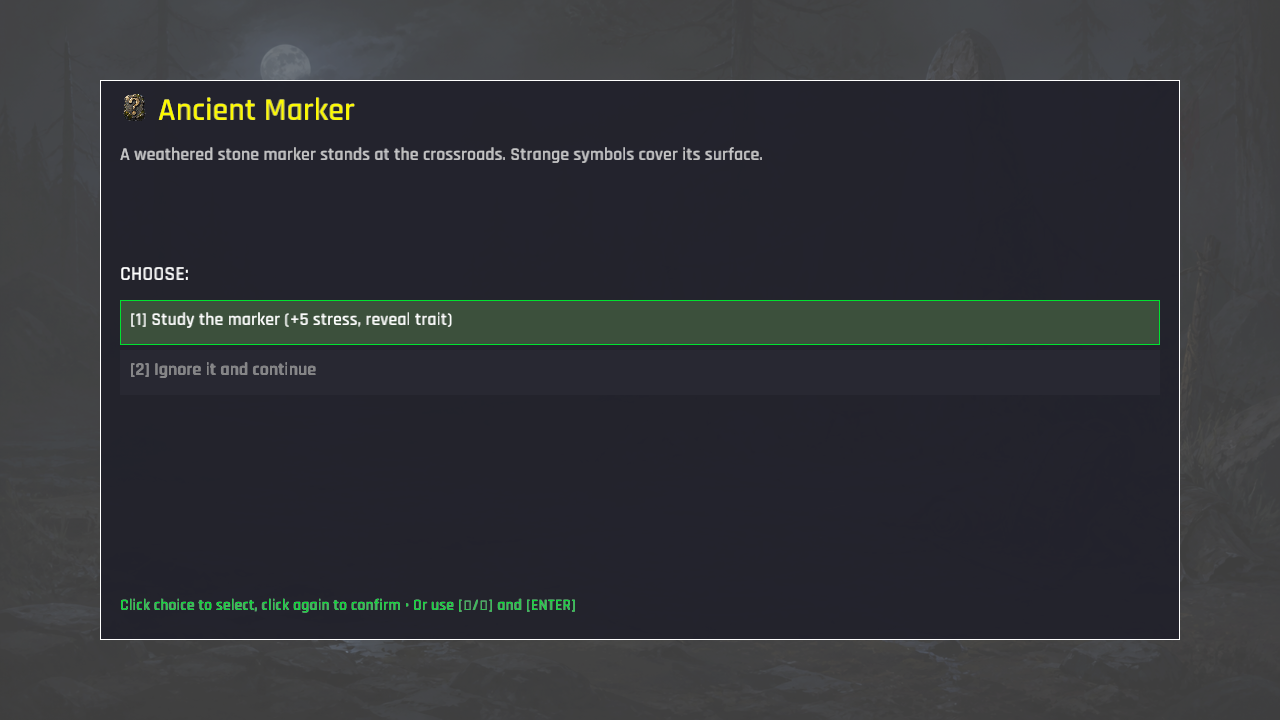
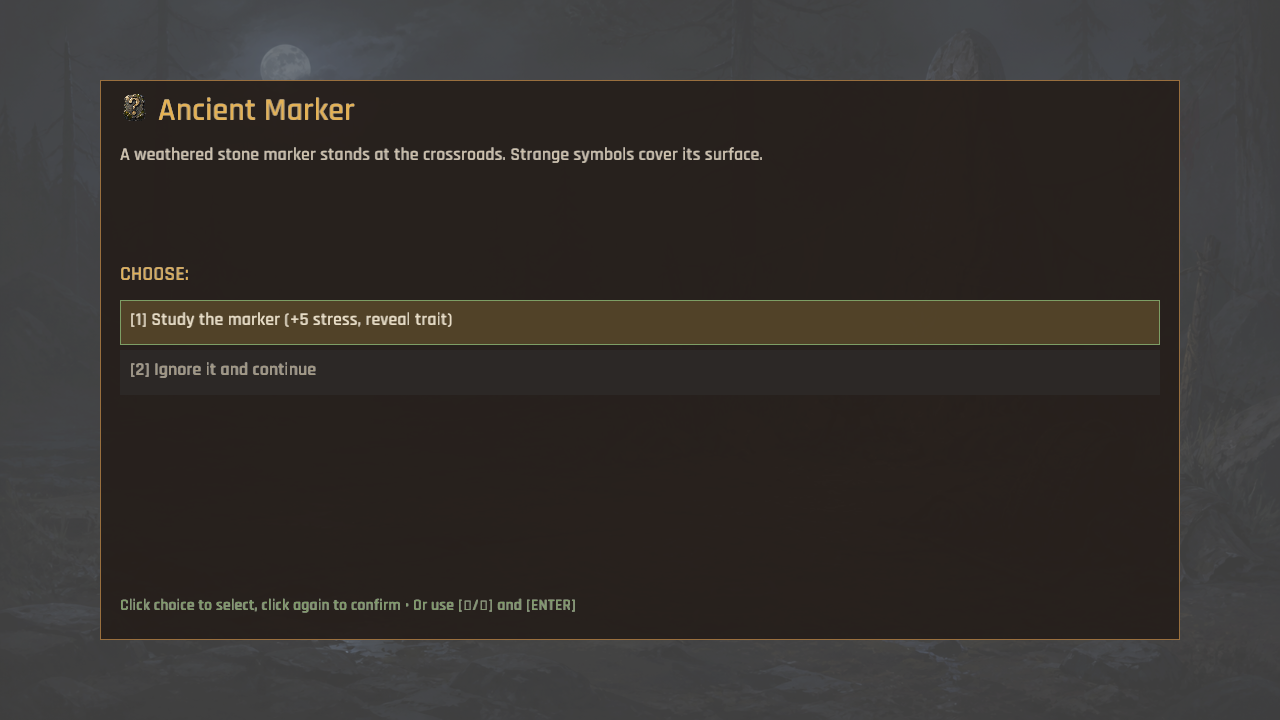
The event shrine and guild hall shed their old blue enamel (event and recruit palette)
The new shrine and guild-hall backgrounds were still covered by legacy purple-blue panel fills, which made both screens feel detached from the frontier command palette. Recolor the event panel, choices, and instructions plus the recruitment cards, labels, costs, and footer with the shared charcoal, parchment, brass, moss, and danger tones used elsewhere.

Refresh `ui_event.png` and `ui_recruit.png` after the change. `cargo test` passes and `publish.ps1` completes both release builds, packs 38 assets, and deploys preview.

diff --git a/src/state/event.rs b/src/state/event.rs
@@ -195,9 +195,16 @@ impl EventState {
             panel_y,
             panel_w,
             panel_h,
-            Color::from_rgba(30, 30, 40, 250),
+            Color::from_rgba(30, 23, 19, 246),
         );
-        draw_rectangle_lines(panel_x, panel_y, panel_w, panel_h, 2.0, WHITE);
+        draw_rectangle_lines(
+            panel_x,
+            panel_y,
+            panel_w,
+            panel_h,
+            2.0,
+            Color::from_rgba(153, 111, 62, 255),
+        );
 
         // Title
         draw_icon(
@@ -213,7 +220,7 @@ impl EventState {
             panel_x + 58.0,
             panel_y + 40.0,
             32.0,
-            YELLOW,
+            Color::from_rgba(228, 177, 84, 255),
         );
 
         // Description
@@ -233,7 +240,13 @@ impl EventState {
 
             // Rough estimate: 8 pixels per character at size 18
             if test_line.len() as f32 * 8.0 > max_width {
-                draw_ui_text(&line, panel_x + 20.0, y, 18.0, LIGHTGRAY);
+                draw_ui_text(
+                    &line,
+                    panel_x + 20.0,
+                    y,
+                    18.0,
+                    Color::from_rgba(208, 195, 173, 255),
+                );
                 y += 25.0;
                 line = word.to_string();
             } else {
@@ -241,12 +254,24 @@ impl EventState {
             }
         }
         if !line.is_empty() {
-            draw_ui_text(&line, panel_x + 20.0, y, 18.0, LIGHTGRAY);
+            draw_ui_text(
+                &line,
+                panel_x + 20.0,
+                y,
+                18.0,
+                Color::from_rgba(208, 195, 173, 255),
+            );
         }
 
         // Choices
         let choices_y = panel_y + 200.0;
-        draw_ui_text("CHOOSE:", panel_x + 20.0, choices_y, 20.0, WHITE);
+        draw_ui_text(
+            "CHOOSE:",
+            panel_x + 20.0,
+            choices_y,
+            20.0,
+            Color::from_rgba(228, 177, 84, 255),
+        );
 
         for (i, choice) in self.event.choices.iter().enumerate() {
             let y = choices_y + 35.0 + (i as f32 * 50.0);
@@ -258,11 +283,11 @@ impl EventState {
 
             // Choice background with hover
             let bg_color = if is_selected {
-                Color::from_rgba(60, 80, 60, 255)
+                Color::from_rgba(76, 59, 32, 245)
             } else if is_hovered {
-                Color::from_rgba(50, 55, 60, 255)
+                Color::from_rgba(63, 52, 41, 240)
             } else {
-                Color::from_rgba(40, 40, 50, 255)
+                Color::from_rgba(27, 23, 21, 235)
             };
             draw_rectangle(panel_x + 20.0, choice_y, panel_w - 40.0, choice_h, bg_color);
 
@@ -273,7 +298,7 @@ impl EventState {
                     panel_w - 40.0,
                     choice_h,
                     2.0,
-                    GREEN,
+                    Color::from_rgba(125, 158, 101, 255),
                 );
             } else if is_hovered {
                 draw_rectangle_lines(
@@ -282,12 +307,16 @@ impl EventState {
                     panel_w - 40.0,
                     choice_h,
                     1.0,
-                    LIGHTGRAY,
+                    Color::from_rgba(153, 111, 62, 255),
                 );
             }
 
             // Choice text
-            let text_color = if is_selected { WHITE } else { GRAY };
+            let text_color = if is_selected {
+                Color::from_rgba(236, 224, 198, 255)
+            } else {
+                Color::from_rgba(164, 153, 130, 255)
+            };
             draw_ui_text(
                 &format!("[{}] {}", i + 1, choice.text),
                 panel_x + 30.0,
@@ -303,7 +332,7 @@ impl EventState {
             panel_x + 20.0,
             panel_y + panel_h - 30.0,
             16.0,
-            GREEN,
+            Color::from_rgba(125, 158, 101, 255),
         );
     }
 }

diff --git a/src/state/recruit.rs b/src/state/recruit.rs
@@ -125,14 +125,20 @@ impl RecruitState {
             BackgroundArt::Recruit,
             Color::from_rgba(5, 5, 8, 174),
         );
-        draw_ui_text("RECRUITMENT", 20.0, 40.0, 32.0, WHITE);
+        draw_ui_text(
+            "RECRUITMENT",
+            20.0,
+            40.0,
+            32.0,
+            Color::from_rgba(236, 224, 198, 255),
+        );
         draw_icon(textures, SpriteIcon::Gold, 18.0, 48.0, 26.0, WHITE);
         draw_ui_text(
             &format!("Gold: {}", kingdom.stats.gold),
             52.0,
             70.0,
             20.0,
-            YELLOW,
+            Color::from_rgba(214, 154, 62, 255),
         );
 
         let start_y = 120.0;
@@ -148,17 +154,21 @@ impl RecruitState {
             // Background
             let bg_color = if is_selected {
                 if can_afford {
-                    Color::from_rgba(60, 80, 60, 255)
+                    Color::from_rgba(76, 59, 32, 245)
                 } else {
-                    Color::from_rgba(80, 60, 60, 255)
+                    Color::from_rgba(69, 39, 33, 245)
                 }
             } else {
-                Color::from_rgba(40, 40, 50, 255)
+                Color::from_rgba(27, 23, 21, 232)
             };
             draw_rectangle(20.0, y, card_width, card_height, bg_color);
 
             if is_selected {
-                let border = if can_afford { GREEN } else { RED };
+                let border = if can_afford {
+                    Color::from_rgba(214, 154, 62, 255)
+                } else {
+                    Color::from_rgba(150, 55, 48, 255)
+                };
                 draw_rectangle_lines(20.0, y, card_width, card_height, 2.0, border);
             }
 
@@ -187,7 +197,11 @@ impl RecruitState {
             draw_icon(textures, class_icon, 450.0, y + 12.0, 48.0, WHITE);
 
             // Info
-            let text_color = if is_selected { WHITE } else { GRAY };
+            let text_color = if is_selected {
+                Color::from_rgba(236, 224, 198, 255)
+            } else {
+                Color::from_rgba(164, 153, 130, 255)
+            };
             draw_ui_text(
                 &format!("[{}] {}", i + 1, recruit.adventurer.name),
                 140.0,
@@ -203,18 +217,22 @@ impl RecruitState {
                 140.0,
                 y + 55.0,
                 18.0,
-                SKYBLUE,
+                Color::from_rgba(164, 153, 130, 255),
             );
             draw_ui_text(
                 &format!("HP: {}", recruit.adventurer.max_hp),
                 140.0,
                 y + 80.0,
                 16.0,
-                GREEN,
+                Color::from_rgba(112, 143, 92, 255),
             );
 
             // Cost
-            let cost_color = if can_afford { YELLOW } else { RED };
+            let cost_color = if can_afford {
+                Color::from_rgba(214, 154, 62, 255)
+            } else {
+                Color::from_rgba(150, 55, 48, 255)
+            };
             draw_ui_text(
                 &format!("Cost: {} Gold", recruit.cost),
                 350.0,
@@ -225,7 +243,13 @@ impl RecruitState {
         }
 
         if self.recruits.is_empty() {
-            draw_ui_text("No recruits available", 20.0, start_y + 30.0, 24.0, GRAY);
+            draw_ui_text(
+                "No recruits available",
+                20.0,
+                start_y + 30.0,
+                24.0,
+                Color::from_rgba(164, 153, 130, 255),
+            );
         }
 
         draw_ui_text(
@@ -233,7 +257,7 @@ impl RecruitState {
             20.0,
             screen_height() - 40.0,
             20.0,
-            GREEN,
+            Color::from_rgba(112, 143, 92, 255),
         );
     }
 }
